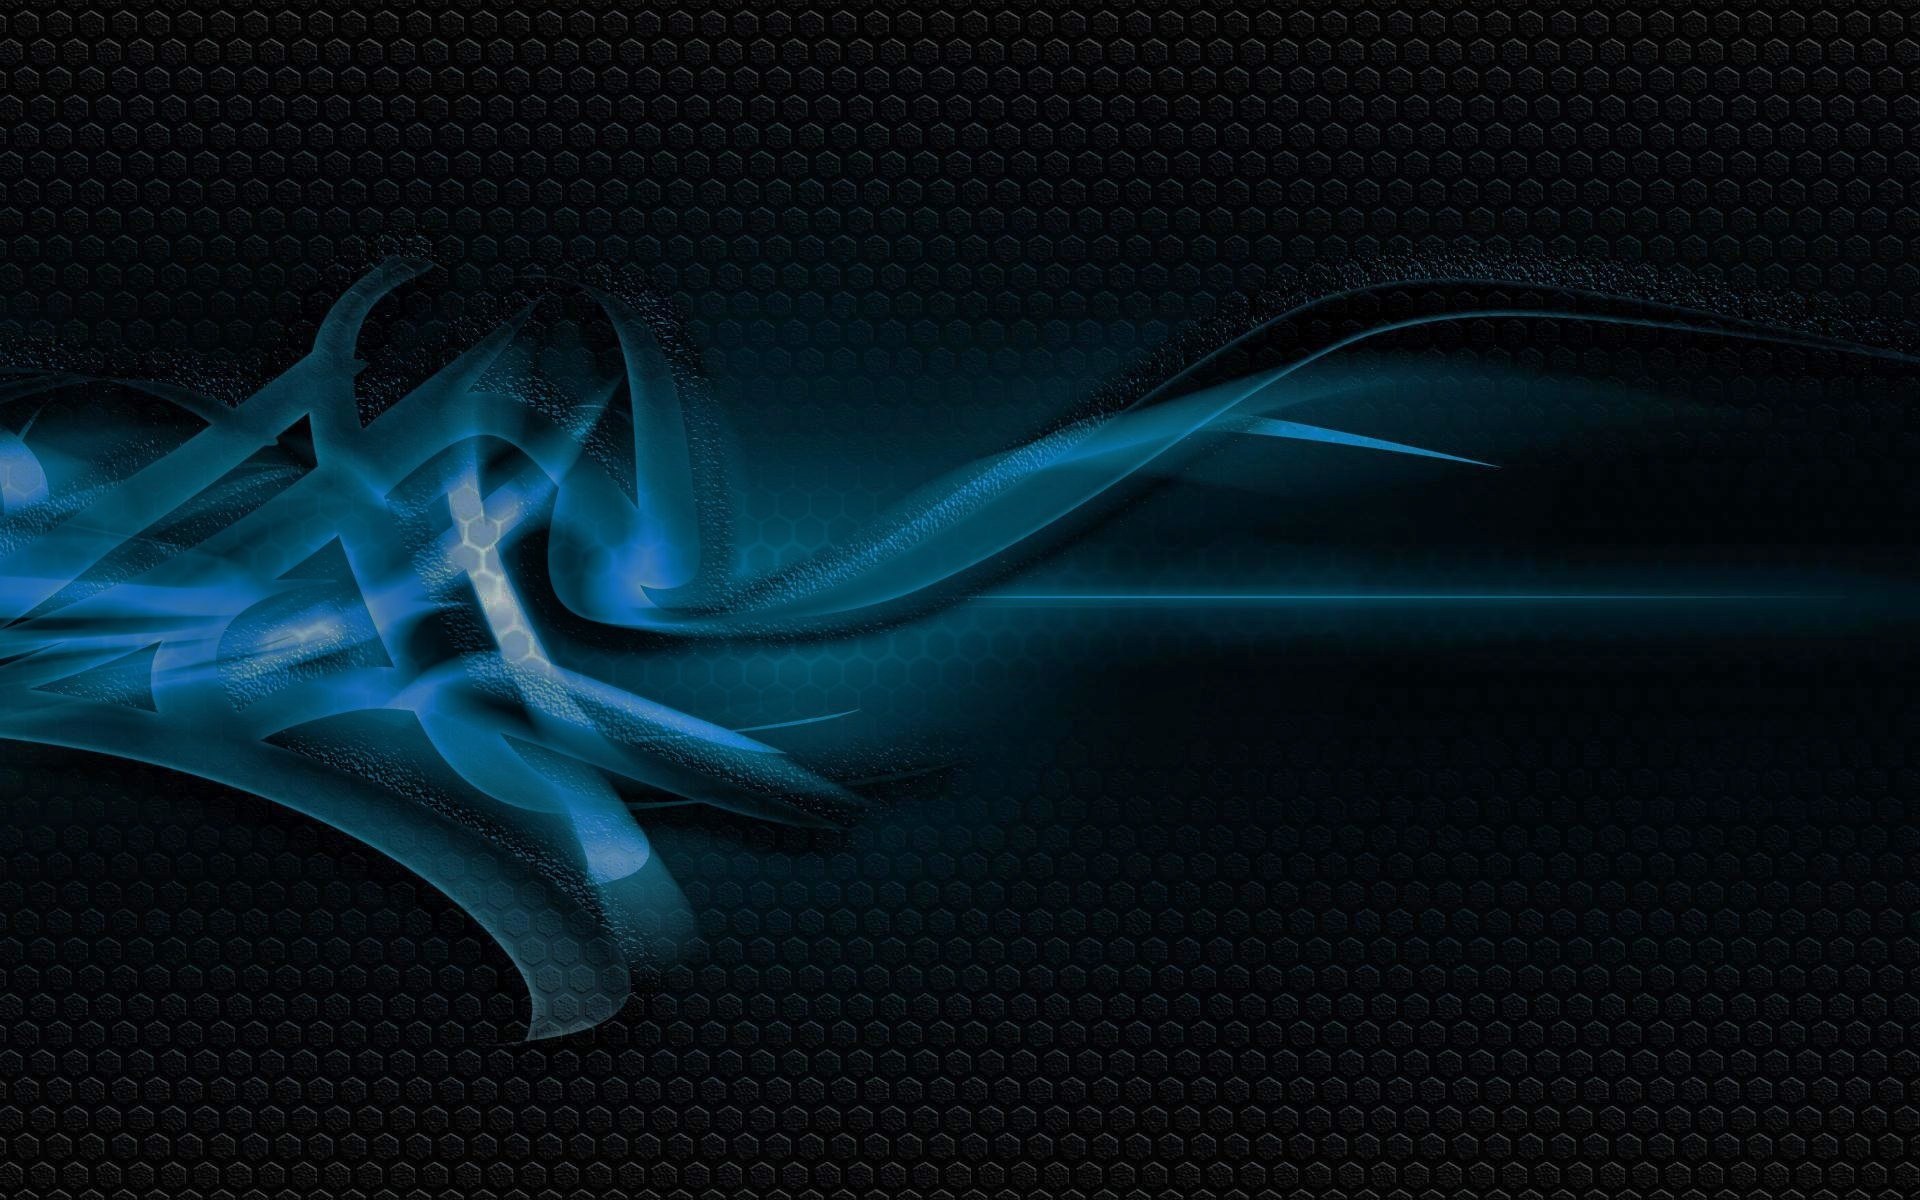
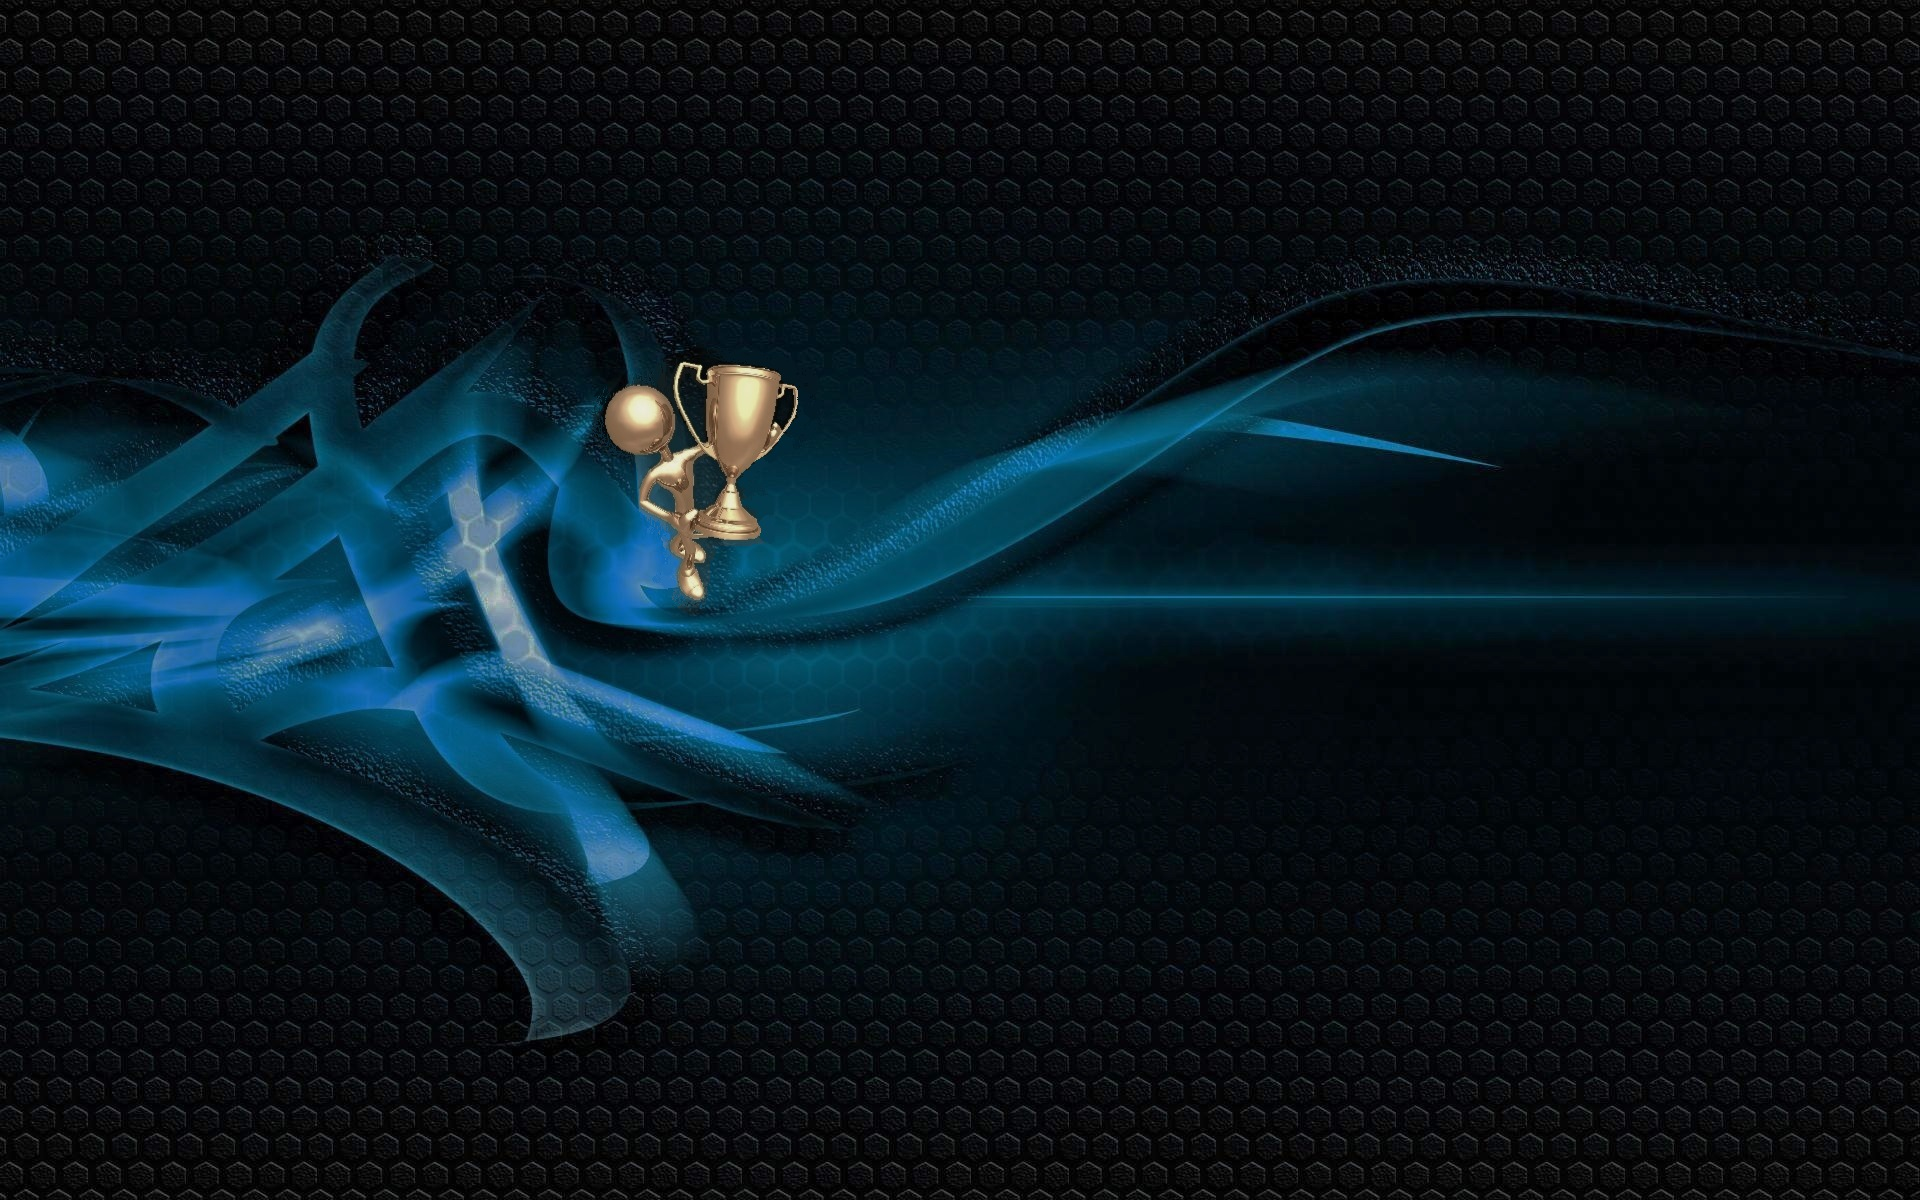
css backgroundv + winner image

Changed region(s): [[0.3125, 0.2775, 0.4375, 0.5242]]

diff --git a/app/templates/index.html b/app/templates/index.html
@@ -8,6 +8,7 @@
     {% endif %}
     
   </head>
+  
   <body>
     
     {% extends "base.html" %}
@@ -17,12 +18,12 @@
     <div id="wrapper">
 		<div id="inputs">
 			<form name="input" action="/index" method="post">
-				<h2> {{check_guess}} Make a guess by typing 4 numbers between 1 and 8 </h2>
+				<h2> {{check_guess }} Make a guess by typing 4 numbers between 1 and 8 </h2>
                 <br> </br>
                 <input type="text" name="Guess" placeholder="Type your guess here" ID = "guess" >		                
                 <br> </br>             
 				<input type="submit" value="Submit" ID="Button1" >
-                <input type="reset" value="Reset" ID="Button1">
+                <input type="reset" value="Restart" ID="Button1">
 			</form>
 		</div>
 	</div>
@@ -30,11 +31,17 @@
         <table border="1px">
             <thead>
                 <tr>
-                    <th> Attempt Number</th>   
-                    <th> Guess </th>	
-                    <th> Number of Reds </th>	
-                    <th> Number of Whites</th>	
-                </tr>
+                    <th> {{Attempt_Number}} </th>   
+                    <th> {{Guess_form}} </th>	
+                    <th> {{Number_of_Reds}} </th>	
+                    <th> {{Number_of_Whites}} </th>	
+                
+                {% if red == 4 %}                 
+                <tr>                
+                   <img src= "/static/mind3win.png" / ID= "winner"> 
+                </tr> 
+                {% endif%}
+                
             </thead>
             <tbody>
                 {% for attempt_num in attempt_number %}                
@@ -52,7 +59,7 @@
             </tbody>
         </table>
     </div>
-    <h3>{{first}} {{red_number}} {{second}} {{white_number}} {{third}}<h3>
+    <h3>{{first}} {{red_number}} {{second}} {{white_number}} {{third}} <h3>
   {% endblock %} 
   </body>
 </html>

diff --git a/app/static/form_1.css b/app/static/form_1.css
@@ -11,6 +11,8 @@ INPUT#Button1 {
         border-radius:10%;
         font-weight:bold;
         
+     
+        
 }
 
 INPUT#Button1:hover {
@@ -31,7 +33,7 @@ INPUT:invalid {
 
 body{
     text-align:center;    
-    background-image :url('mind5.jpg');
+    background-image :url('mind6.jpg');
     background-color:#cccccc;
 } 
 
@@ -66,3 +68,8 @@ h3 {
   color: white;
   font-size:1em;
 }  
+
+INPUT#winner {
+    border-style:outset;
+    margin : 10px 0 ;
+} 

diff --git a/app/views.py b/app/views.py
@@ -74,7 +74,7 @@ def index():
         for i in range(1, 5):
             Secret.append(random.randrange(1, 9, 1))
         respEntry = make_response(render_template("index.html",
-            title = 'Home',
+            title = 'Home', red = red
         ))
         
         respEntry.set_cookie('Secret', list_to_string(Secret))
@@ -97,19 +97,12 @@ def index():
     # get cookies
     if request.method =='GET':
         return render_template("index.html",
-            title = 'Home',
+            title = 'Home', red = red
             )
         
     # get guess
     guess = request.form['Guess']
-    if not guess.isdigit():
-        return render_template("index.html",
-        title = 'Home', check_guess = "Du, Dummkopf! Please read carefully! I said:"
-        )
-    if guess.isdigit() and int(guess) <1111 or int(guess) > 8888:
-        return render_template("index.html",
-        title = 'Home', check_guess = "Du, Dummkopf! Please read carefully! I said"
-        )
+    
     
     
     print Secret
@@ -119,7 +112,7 @@ def index():
     white_place = [0,1,2,3] 
                 
     # transform format
-    guess = string_to_list(guess)
+    
     Secret = string_to_list(Secret)
     list_guess = string2_to_list(list_guess)
     list_red = string2_to_list(list_red)
@@ -127,6 +120,21 @@ def index():
     red = int(red)
     white = int(white)
     r = int(r)
+    
+    attempt_number = range(1,11)
+    attempt_num = range(0,r)
+    generalist = []
+    for i in range(0,r):
+        generalist.append([attempt_number[i], list_guess[i], list_red[i], list_white[i]])
+        print generalist 
+        
+    if guess.isdigit() and 1111 <= int(guess) <= 8888:
+        guess = string_to_list(guess)
+    else:   
+        return render_template("index.html",
+        title = 'Beanmind', red = red, Attempt_Number= ' Attempt Number ', Guess_form = ' Guess ', Number_of_Reds = ' Number of Reds ', Number_of_Whites = ' Number of Whites ', attempt_number = attempt_num, generalist = generalist, check_guess = "Du, Dummkopf! Please read carefully! I said:"
+        )
+    
     
     print Secret
     print guess
@@ -148,7 +156,7 @@ def index():
             print red
         if red == 4:
             respExit = make_response(render_template("index.html",
-                title = 'Beanmind', first = " Yeah you're so good!"))
+                title = 'Beanmind',first = " Yeah you're so good!", red = red ))
             respExit.set_cookie('Secret','', expires=0)
             respExit.set_cookie('red', '', expires=0)
             respExit.set_cookie('white', '', expires=0)
@@ -184,46 +192,46 @@ def index():
     print list_white
     
     attempt_number = range(1,11)
-    attempt_num = range(0,10)
+    attempt_num = range(0,r)
     print attempt_number
     generalist = []
-    for i in range(0,10):
+    for i in range(0,r):
         generalist.append([attempt_number[i], list_guess[i], list_red[i], list_white[i]])
         print generalist   
     
     if r==10 and red < 4:
         respExit = make_response(render_template("index.html",
-        title = 'Beanmind',attempt_number = attempt_num, generalist = generalist, first = " Time's up. Sorry but you lost."  
+        title = 'Beanmind', red = red, Attempt_Number= ' Attempt Number ', Guess_form = ' Guess ', Number_of_Reds = ' Number of Reds ', Number_of_Whites = ' Number of Whites ',attempt_number = attempt_num, generalist = generalist, first = " Time's up. Sorry but you lost. If you want to play again, click on 'restart'"  
         ))
         reset_cookies(respExit, Secret, red, white, r, list_guess, list_red, list_white)
         return respExit
     if red == 0 and white == 0:   
         respExit = make_response(render_template("index.html",
-        title = 'Beanmind',attempt_number = attempt_num, generalist = generalist, first = " Ca m'est saucisson mais quand meme, t'es trop nul! You've got nothing. Try again"  
+        title = 'Beanmind', red = red, Attempt_Number= ' Attempt Number ', Guess_form = ' Guess ', Number_of_Reds = ' Number of Reds ', Number_of_Whites = ' Number of Whites ',attempt_number = attempt_num, generalist = generalist, first = " Ca m'est saucisson mais quand meme, t'es trop nul! You've got nothing. Try again"  
         ))
         set_cookies(respExit, r, list_guess,list_red, list_white)
         return respExit
     elif red == 0 and white == 1 or red==0 and white == 2:
         respExit = make_response( render_template("index.html",
-        title = 'Beanmind', attempt_number = attempt_num, generalist = generalist, first = " Das Leben ist kein Ponyhof, you've got", red_number = red, second ='red and', white_number = white, third = 'white.'  
+        title = 'Beanmind', red = red, Attempt_Number= ' Attempt Number ', Guess_form = ' Guess ', Number_of_Reds = ' Number of Reds ', Number_of_Whites = ' Number of Whites ',attempt_number = attempt_num, generalist = generalist, first = " Das Leben ist kein Ponyhof, you've got", red_number = red, second ='red and', white_number = white, third = 'white.'  
         ))
         set_cookies(respExit, r, list_guess,list_red, list_white)
         return respExit
     elif red == 2:
         respExit = make_response ( render_template("index.html",
-        title = 'Beanmind', attempt_number = attempt_num, generalist = generalist, first = " Getting better! You've got", red_number = red, second ='red and', white_number = white, third = 'white.'
+        title = 'Beanmind', red = red, Attempt_Number= ' Attempt Number ', Guess_form = ' Guess ', Number_of_Reds = ' Number of Reds ', Number_of_Whites = ' Number of Whites ',attempt_number = attempt_num, generalist = generalist, first = " Getting better! You've got", red_number = red, second ='red and', white_number = white, third = 'white.'
         ))
         set_cookies(respExit, r, list_guess,list_red, list_white)
         return respExit
     elif red == 3:        
         respExit = make_response ( render_template("index.html",
-        title = 'Beanmind', attempt_number = attempt_num, generalist = generalist, first = " Almost. ALMOST! You've got", red_number = red, second ='red and', white_number = white, third ='white!'        
+        title = 'Beanmind', red = red, Attempt_Number= ' Attempt Number ', Guess_form = ' Guess ', Number_of_Reds = ' Number of Reds ', Number_of_Whites = ' Number of Whites ',attempt_number = attempt_num, generalist = generalist, first = " Almost. ALMOST! You've got", red_number = red, second ='red and', white_number = white, third ='white!'        
         ))
         set_cookies(respExit, r, list_guess,list_red, list_white)
         return respExit
     else:
         respExit = make_response ( render_template("index.html",
-        title = 'Beanmind', attempt_number = attempt_num, generalist = generalist, first = " You've got", red_number = red, second ='red and', white_number = white, third ='white.'
+        title = 'Beanmind', red = red, Attempt_Number= ' Attempt Number ', Guess_form = ' Guess ', Number_of_Reds = ' Number of Reds ', Number_of_Whites = ' Number of Whites ', attempt_number = attempt_num, generalist = generalist, first = " You've got", red_number = red, second ='red and', white_number = white, third ='white.'
         ))
         set_cookies(respExit, r, list_guess,list_red, list_white)
         return respExit
